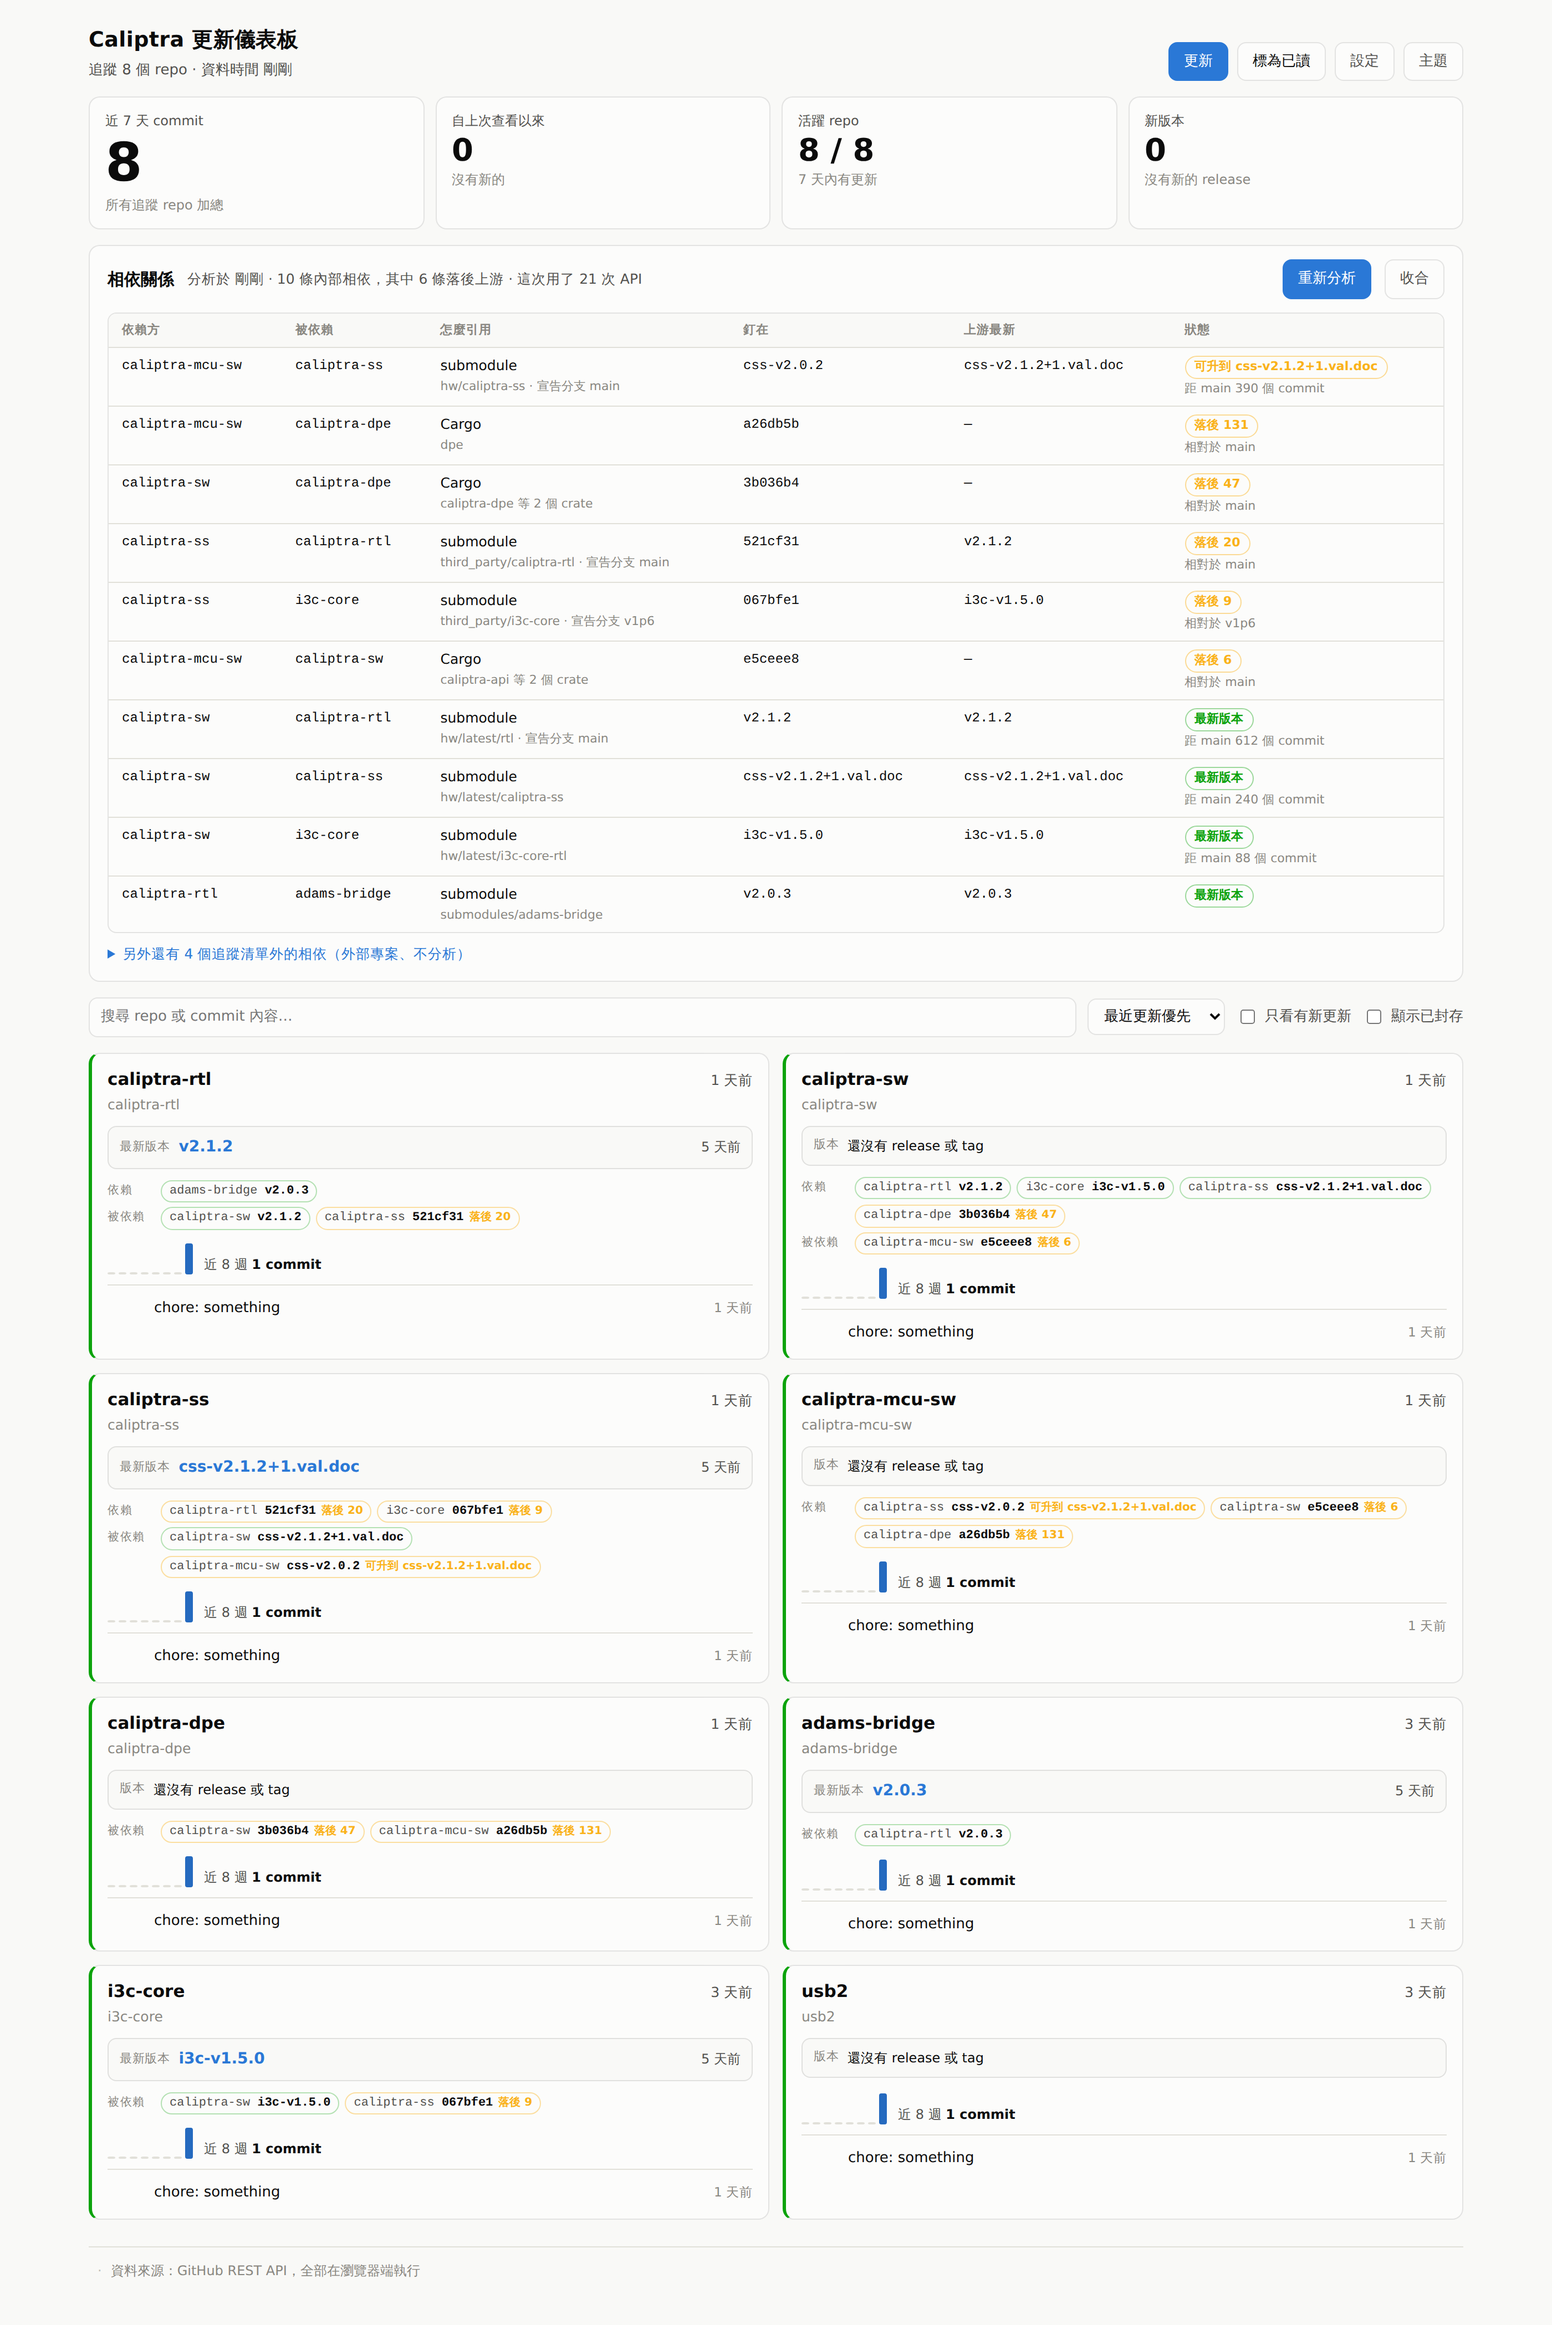
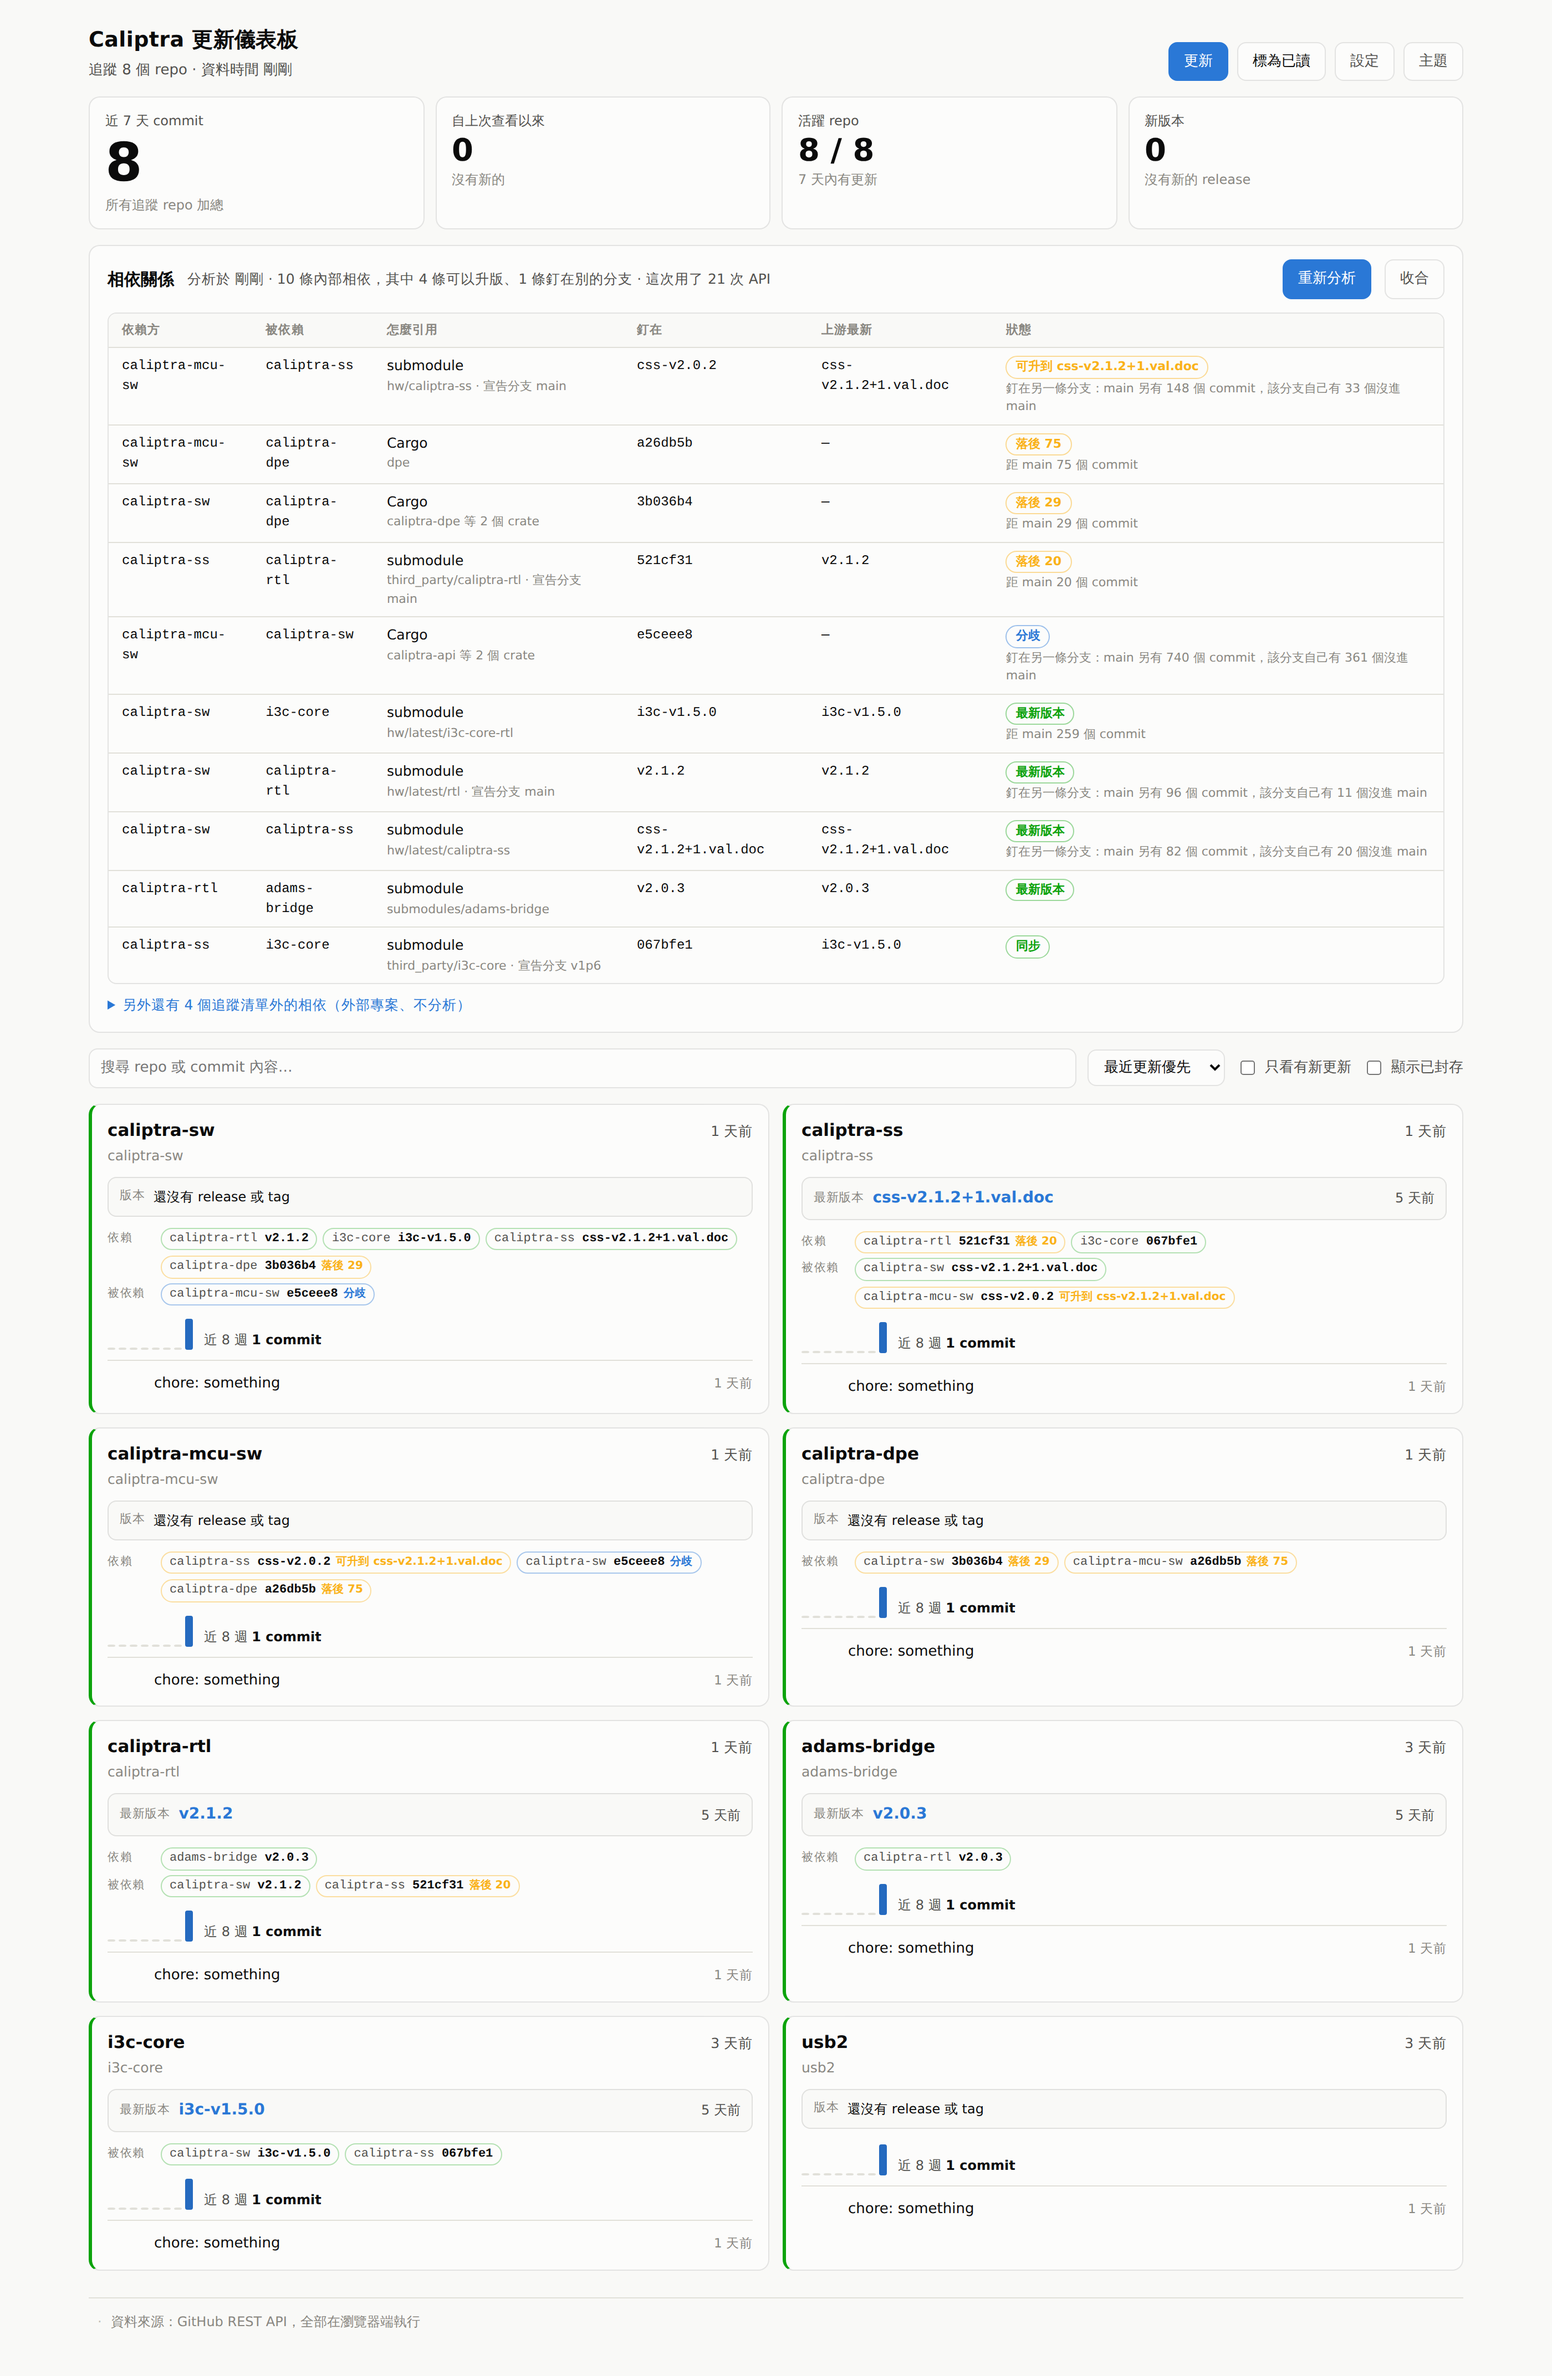
分辨「落後」與「分歧」：有些 pin 不在 main 上
實際驗證後發現四條相依釘的 commit 根本不在被依賴方的 main 上，而是在
release 分支上，其中 caliptra-mcu-sw 釘的 caliptra-sw commit 所在的分支
自己就有 361 個 commit 沒進 main。對這種情況說「落後 N 個 commit」會誤導。

- compare 的回應改成連 status 與 behind_by 一起收下
- 新增「分歧」狀態：說明比較對象另有幾個 commit、釘的分支自己又有幾個
- 狀態列分別統計「可以升版」與「釘在別的分支」

Claude-Session: https://claude.ai/code/session_012hs9U68ugBaJqqT87cBdoo

diff --git a/app.js b/app.js
@@ -824,7 +824,8 @@
           var edge = {
             from: r.full_name, to: target || s.url, kind: 'submodule',
             ref: s.path, declaredBranch: s.branch || '',
-            sha: '', tag: '', behind: null, latest: '', comparedTo: '', error: ''
+            sha: '', tag: '', behind: null, diverged: null, cmpStatus: '',
+            latest: '', comparedTo: '', error: ''
           };
           if (target && trackedRepo(target)) edges.push(edge); else external.push(edge);
         });
@@ -833,7 +834,8 @@
             from: r.full_name, to: d.repo, kind: 'cargo',
             ref: d.crate + (d.count > 1 ? ' 等 ' + d.count + ' 個 crate' : ''),
             declaredBranch: d.branch, sha: d.sha, tag: d.tag,
-            behind: null, latest: '', comparedTo: '', error: ''
+            behind: null, diverged: null, cmpStatus: '',
+            latest: '', comparedTo: '', error: ''
           };
           if (trackedRepo(d.repo)) edges.push(edge); else external.push(edge);
         });
@@ -883,8 +885,11 @@
         e.comparedTo = head;
         banner('比對落後量 ' + (++n) + ' / ' + todo.length + '：' + shortName(e.from) + ' → ' + shortName(e.to), 'info');
         return gh('/repos/' + e.to + '/compare/' + e.sha + '...' + head, { per_page: 1 })
-          .then(function (c) { e.behind = typeof c.ahead_by === 'number' ? c.ahead_by : null; },
-                function (err) { if (!e.error) e.error = errText(err); });
+          .then(function (c) {
+            e.behind = typeof c.ahead_by === 'number' ? c.ahead_by : null;
+            e.diverged = typeof c.behind_by === 'number' ? c.behind_by : null;
+            e.cmpStatus = c.status || '';
+          }, function (err) { if (!e.error) e.error = errText(err); });
       });
     }
 
@@ -914,21 +919,32 @@
     }, Promise.resolve());
   }
 
-  // 釘 tag 的邊要用版本比，釘 commit 的邊才用 commit 數比。
+  // 釘住的 commit 不一定在被比較的分支上 —— 有好幾條是釘在 release 分支。
+  // 那種情況說「落後 N」會誤導，要標成分歧並把兩邊各自多出多少講清楚。
+  function lagNote(e) {
+    var to = e.comparedTo || 'main';
+    if (e.cmpStatus === 'diverged') {
+      return '釘在另一條分支：' + to + ' 另有 ' + e.behind + ' 個 commit，該分支自己有 ' +
+             e.diverged + ' 個沒進 ' + to;
+    }
+    if (e.behind > 0) return '距 ' + to + ' ' + e.behind + ' 個 commit';
+    return '';
+  }
+
+  // 釘 tag 的邊用版本比，釘 commit 的邊才用 commit 數比。
   // 釘在上游最新的 release 上，即使距離 main 幾百個 commit，也不算落後。
   function edgeState(e) {
     if (e.error) return { cls: 'unknown', label: '?', note: e.error };
-    var lag = e.behind > 0
-      ? '距 ' + (e.comparedTo || 'main') + ' ' + e.behind + ' 個 commit'
-      : '';
+    var note = lagNote(e);
 
     if (e.tag && e.latest) {
       return e.tag === e.latest
-        ? { cls: 'sync', label: '最新版本', note: lag }
-        : { cls: 'behind', label: '可升到 ' + e.latest, note: lag };
+        ? { cls: 'sync', label: '最新版本', note: note }
+        : { cls: 'behind', label: '可升到 ' + e.latest, note: note };
     }
+    if (e.cmpStatus === 'diverged') return { cls: 'diverged', label: '分歧', note: note };
     if (e.behind === 0) return { cls: 'sync', label: '同步', note: '' };
-    if (e.behind > 0) return { cls: 'behind', label: '落後 ' + e.behind, note: lag ? '相對於 ' + (e.comparedTo || 'main') : '' };
+    if (e.behind > 0) return { cls: 'behind', label: '落後 ' + e.behind, note: note };
     return { cls: 'unknown', label: '—', note: '' };
   }
 
@@ -954,14 +970,19 @@
     }
 
     var drift = d.edges.filter(function (e) { return edgeState(e).cls === 'behind'; }).length;
+    var forked = d.edges.filter(function (e) { return edgeState(e).cls === 'diverged'; }).length;
     $('#deps-status').textContent = '分析於 ' + relTime(d.analysedAt) + ' · ' + d.edges.length +
-      ' 條內部相依' + (drift ? '，其中 ' + drift + ' 條落後上游' : '，全部同步') +
+      ' 條內部相依' +
+      (drift || forked
+        ? '，其中 ' + (drift ? drift + ' 條可以升版' : '') + (drift && forked ? '、' : '') +
+          (forked ? forked + ' 條釘在別的分支' : '')
+        : '，全部同步') +
       ' · 這次用了 ' + d.calls + ' 次 API';
     $('#btn-deps').textContent = '重新分析';
     $('#btn-deps-toggle').hidden = false;
 
     var rows = d.edges.slice().sort(function (a, b) {
-      var rank = function (e) { return { behind: 0, unknown: 1, sync: 2 }[edgeState(e).cls]; };
+      var rank = function (e) { return { behind: 0, diverged: 1, unknown: 2, sync: 3 }[edgeState(e).cls]; };
       return rank(a) - rank(b) || (b.behind || 0) - (a.behind || 0) || a.from.localeCompare(b.from);
     });
 
@@ -1022,7 +1043,7 @@
           esc(shortName(e.from) + ' → ' + shortName(e.to) + '：' + e.kind + ' ' + e.ref +
               '，釘在 ' + pinLabel(e) + '，' + st.label) + '">' +
           esc(shortName(pick(e))) + ' <b>' + esc(pinLabel(e)) + '</b>' +
-          (st.cls === 'behind' ? '<i>' + esc(st.label) + '</i>' : '') + '</span>';
+          (st.cls === 'behind' || st.cls === 'diverged' ? '<i>' + esc(st.label) + '</i>' : '') + '</span>';
       }).join('');
     }
 

diff --git a/styles.css b/styles.css
@@ -466,6 +466,7 @@ body.no-scroll { overflow: hidden; }
 }
 .dep-pill.sync    { color: var(--ok);    border-color: color-mix(in srgb, var(--ok) 40%, transparent); }
 .dep-pill.behind  { color: var(--warn);  border-color: color-mix(in srgb, var(--warn) 45%, transparent); }
+.dep-pill.diverged { color: var(--accent); border-color: color-mix(in srgb, var(--accent) 45%, transparent); }
 .dep-pill.unknown { color: var(--muted); border-color: var(--border); }
 
 .ext { margin-top: 10px; font-size: 12.5px; color: var(--ink-2); }
@@ -494,3 +495,5 @@ body.no-scroll { overflow: hidden; }
 }
 .dep-chip.behind { border-color: color-mix(in srgb, var(--warn) 40%, transparent); }
 .dep-chip.sync   { border-color: color-mix(in srgb, var(--ok) 30%, transparent); }
+.dep-chip.diverged { border-color: color-mix(in srgb, var(--accent) 40%, transparent); }
+.dep-chip.diverged i { color: var(--accent); }
